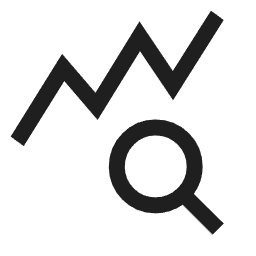
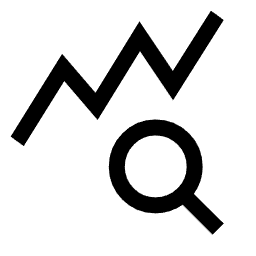
(front):difficulties page

Changed region(s): [[0.0312, 0.0312, 0.875, 0.5625], [0.4062, 0.4688, 0.875, 0.9062]]

diff --git a/front/nuxt-app/pages/difficulties.vue b/front/nuxt-app/pages/difficulties.vue
@@ -1,0 +1,190 @@
+<template>
+    <DashboardLayout>
+        <h1 class="text-2xl font-bold mb-6">Configurar Dificultades</h1>
+
+        <div v-if="loadingInitial" class="text-center py-10">
+            <p>Cargando configuraciones...</p>
+        </div>
+
+        <div v-if="errorInitial"
+            class="p-4 mb-4 text-sm text-red-800 rounded-lg bg-red-50 dark:bg-gray-800 dark:text-red-400" role="alert">
+            <span class="font-medium">¡Error al cargar!</span> {{ errorInitial }}
+        </div>
+
+        <div v-if="!loadingInitial && !errorInitial" class="space-y-8">
+
+            <div v-for="config in difficulties" :key="config.id"
+                class="p-6 bg-white dark:bg-gray-800 rounded-lg shadow-md">
+                <h2 class="text-xl font-semibold mb-5 capitalize border-b pb-2 dark:border-gray-600">{{
+                    config.difficulty }}</h2>
+
+                <form @submit.prevent="saveDifficulty(config)">
+                    <div class="grid grid-cols-1 sm:grid-cols-2 md:grid-cols-3 lg:grid-cols-4 gap-6 mb-6">
+
+                        <div v-for="(enemy, index) in config.enemies" :key="`${config.id}-${enemy.name}`"
+                            class="flex flex-col items-center p-4 border dark:border-gray-700 rounded-lg bg-gray-50 dark:bg-gray-700">
+                            <img :src="getEnemyImageUrl(enemy.name)" :alt="`Imagen de ${enemy.name}`"
+                                class="w-16 h-16 object-contain mb-3" @error="onImageError" />
+                            <span class="font-medium mb-2 capitalize dark:text-white">{{ enemy.name }}</span>
+                            <input type="number" min="0" v-model.number="enemy.quantity"
+                                class="w-20 p-2 text-center border border-gray-300 rounded-lg dark:bg-gray-600 dark:border-gray-500 dark:text-white focus:ring-blue-500 focus:border-blue-500"
+                                :aria-label="`Cantidad de ${enemy.name}`" />
+                        </div>
+                    </div>
+
+                    <div class="flex items-center justify-end space-x-4">
+                        <span v-if="saveSuccess[config.id]" class="text-sm text-green-600 dark:text-green-400">¡Guardado
+                            correctamente!</span>
+                        <span v-if="saveError[config.id]" class="text-sm text-red-600 dark:text-red-400">Error: {{
+                            saveError[config.id] }}</span>
+
+                        <button type="submit" :disabled="saving[config.id]"
+                            class="text-white bg-blue-700 hover:bg-blue-800 focus:ring-4 focus:outline-none focus:ring-blue-300 font-medium rounded-lg text-sm px-5 py-2.5 text-center dark:bg-blue-600 dark:hover:bg-blue-700 dark:focus:ring-blue-800 disabled:opacity-50 disabled:cursor-not-allowed">
+                            {{ saving[config.id] ? 'Guardando...' : 'Guardar Cambios' }}
+                        </button>
+                    </div>
+                </form>
+            </div>
+        </div>
+
+    </DashboardLayout>
+</template>
+
+<script setup>
+import { ref, onMounted, reactive } from 'vue';
+import { useAuthStore } from '@/stores/authStore';
+
+const authStore = useAuthStore();
+
+// Configuración API (Asegúrate que API_BASE_URL está en nuxt.config.ts)
+const config = useRuntimeConfig();
+const API_BASE_URL = config.public.API_CONFIG_URL;
+const DIFFICULTIES_ENDPOINT = '/config-enemies/difficulties'; // Endpoint GET y base para POST
+
+// Estado reactivo
+const difficulties = ref([]); // Almacenará los datos de [ { id: 0, difficulty: 'facil', enemies: [...] }, ... ]
+const loadingInitial = ref(true); // Estado de carga para la obtención inicial
+const errorInitial = ref(null);   // Error durante la carga inicial
+
+// Estados para guardar (por ID de dificultad)
+const saving = reactive({});      // Objeto para rastrear el estado de guardado: saving[difficultyId] = true/false
+const saveError = reactive({});   // Objeto para rastrear errores de guardado: saveError[difficultyId] = 'mensaje'
+const saveSuccess = reactive({}); // Objeto para mostrar mensaje de éxito: saveSuccess[difficultyId] = true
+
+// --- Funciones ---
+
+// Construye la URL de la imagen del enemigo
+const getEnemyImageUrl = (enemyName) => {
+    // Asume que las imágenes están en /public/enemies-images/nombreEnemigo.png
+    // Asegúrate que el nombre del enemigo en la API coincide con el nombre del archivo (case sensitive!)
+    return `/enemies-images/${enemyName}.png`;
+};
+
+// Fallback por si una imagen no carga
+const onImageError = (event) => {
+    console.warn('No se pudo cargar la imagen:', event.target.src);
+    // Opcional: poner una imagen por defecto
+    // event.target.src = '/path/to/default-enemy.png';
+};
+
+
+// Obtener las configuraciones de dificultad iniciales
+const fetchDifficulties = async () => {
+    loadingInitial.value = true;
+    errorInitial.value = null;
+    try {
+        const response = await $fetch(`${API_BASE_URL}${DIFFICULTIES_ENDPOINT}`);
+        difficulties.value = response; // Asigna la respuesta al estado reactivo
+
+        // Inicializar estados de guardado para cada dificultad
+        response.forEach(diff => {
+            saving[diff.id] = false;
+            saveError[diff.id] = null;
+            saveSuccess[diff.id] = false;
+        });
+
+    } catch (err) {
+        console.error("Error al cargar las dificultades:", err);
+        errorInitial.value = err.data?.message || err.message || "No se pudieron cargar las configuraciones.";
+    } finally {
+        loadingInitial.value = false;
+    }
+};
+
+// Guardar las cantidades para una dificultad específica
+const saveDifficulty = async (difficultyConfig) => {
+    const difficultyId = difficultyConfig.id;
+
+    // Indicar que se está guardando y limpiar errores/éxito previos
+    saving[difficultyId] = true;
+    saveError[difficultyId] = null;
+    saveSuccess[difficultyId] = false;
+
+
+    // Preparar el payload con el formato esperado por el POST
+    const payload = {
+        enemies: difficultyConfig.enemies.map(enemy => ({
+            name: enemy.name,
+            quantity: Number(enemy.quantity) || 0 // Asegura que sea un número, 0 si no es válido
+        }))
+    };
+
+
+    // Construir la URL específica para el POST
+    const postUrl = `${API_BASE_URL}${DIFFICULTIES_ENDPOINT}/${difficultyId}/quantities`;
+    const token = authStore.token;
+
+    try {
+        await $fetch(postUrl, {
+            method: 'PUT',
+            headers: {
+                'Content-Type': 'application/json',
+                'Authorization': `Bearer ${token}`, // Si necesitas autenticación, descomentar y añadir el token
+
+                // Añadir headers de autenticación si son necesarios
+            },
+            body: payload,
+        });
+
+        // Mostrar mensaje de éxito temporalmente
+        saveSuccess[difficultyId] = true;
+        setTimeout(() => {
+            saveSuccess[difficultyId] = false;
+        }, 3000); // Ocultar después de 3 segundos
+
+
+    } catch (err) {
+        console.error(`Error al guardar la dificultad ${difficultyId}:`, err);
+        saveError[difficultyId] = err.data?.message || err.message || "Ocurrió un error al guardar.";
+    } finally {
+        saving[difficultyId] = false; // Terminar estado de guardado
+    }
+};
+
+// --- Ciclo de vida ---
+
+// Cargar los datos cuando el componente se monta
+onMounted(() => {
+    fetchDifficulties();
+});
+
+</script>
+
+<style scoped>
+/* Estilo para capitalizar texto (si Tailwind no lo hace directamente en la clase) */
+.capitalize {
+    text-transform: capitalize;
+}
+
+/* Ajustes menores si son necesarios */
+input[type=number]::-webkit-inner-spin-button,
+input[type=number]::-webkit-outer-spin-button {
+    -webkit-appearance: none;
+    margin: 0;
+}
+
+input[type=number] {
+    -moz-appearance: textfield;
+    /* Firefox */
+}
+</style>

diff --git a/front/nuxt-app/components/DashboardLayout.vue b/front/nuxt-app/components/DashboardLayout.vue
@@ -75,6 +75,14 @@
           </NuxtLink>
         </li>
         <li>
+          <NuxtLink to="/difficulties"
+            class="flex items-center p-2 text-gray-900 rounded-lg dark:text-white hover:bg-gray-100 dark:hover:bg-gray-700 group">
+            <img class="w-5 h-5 opacity-50 transition-opacity duration-75 group-hover:opacity-100"
+              src="/difficulties-icon.png" alt="Enemies Icon">
+            <span class="flex-1 ms-3 whitespace-nowrap">Difficulties</span>
+          </NuxtLink>
+        </li>
+        <li>
           <NuxtLink to="/statistics"
             class="flex items-center p-2 text-gray-900 rounded-lg dark:text-white hover:bg-gray-100 dark:hover:bg-gray-700 group">
             <img class="w-5 h-5 opacity-50 transition-opacity duration-75 group-hover:opacity-100"
